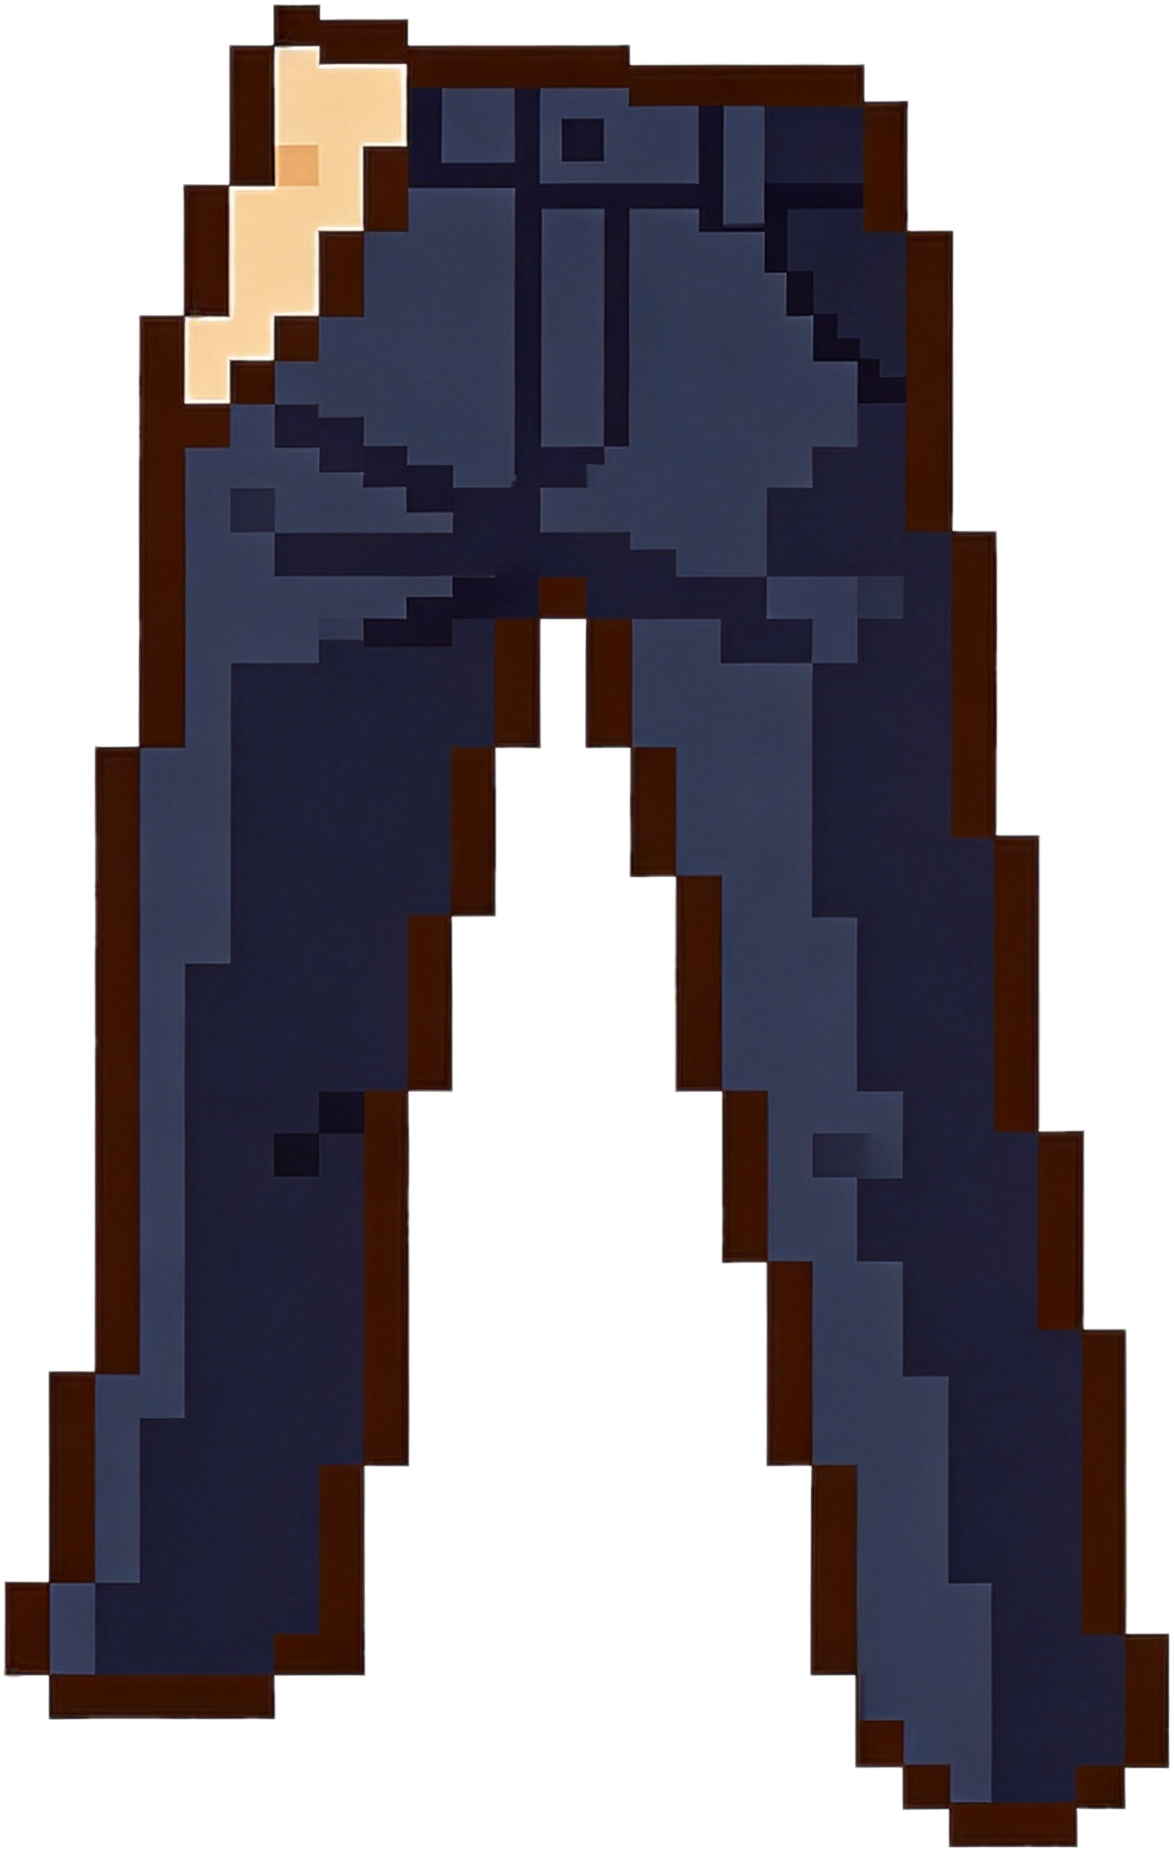
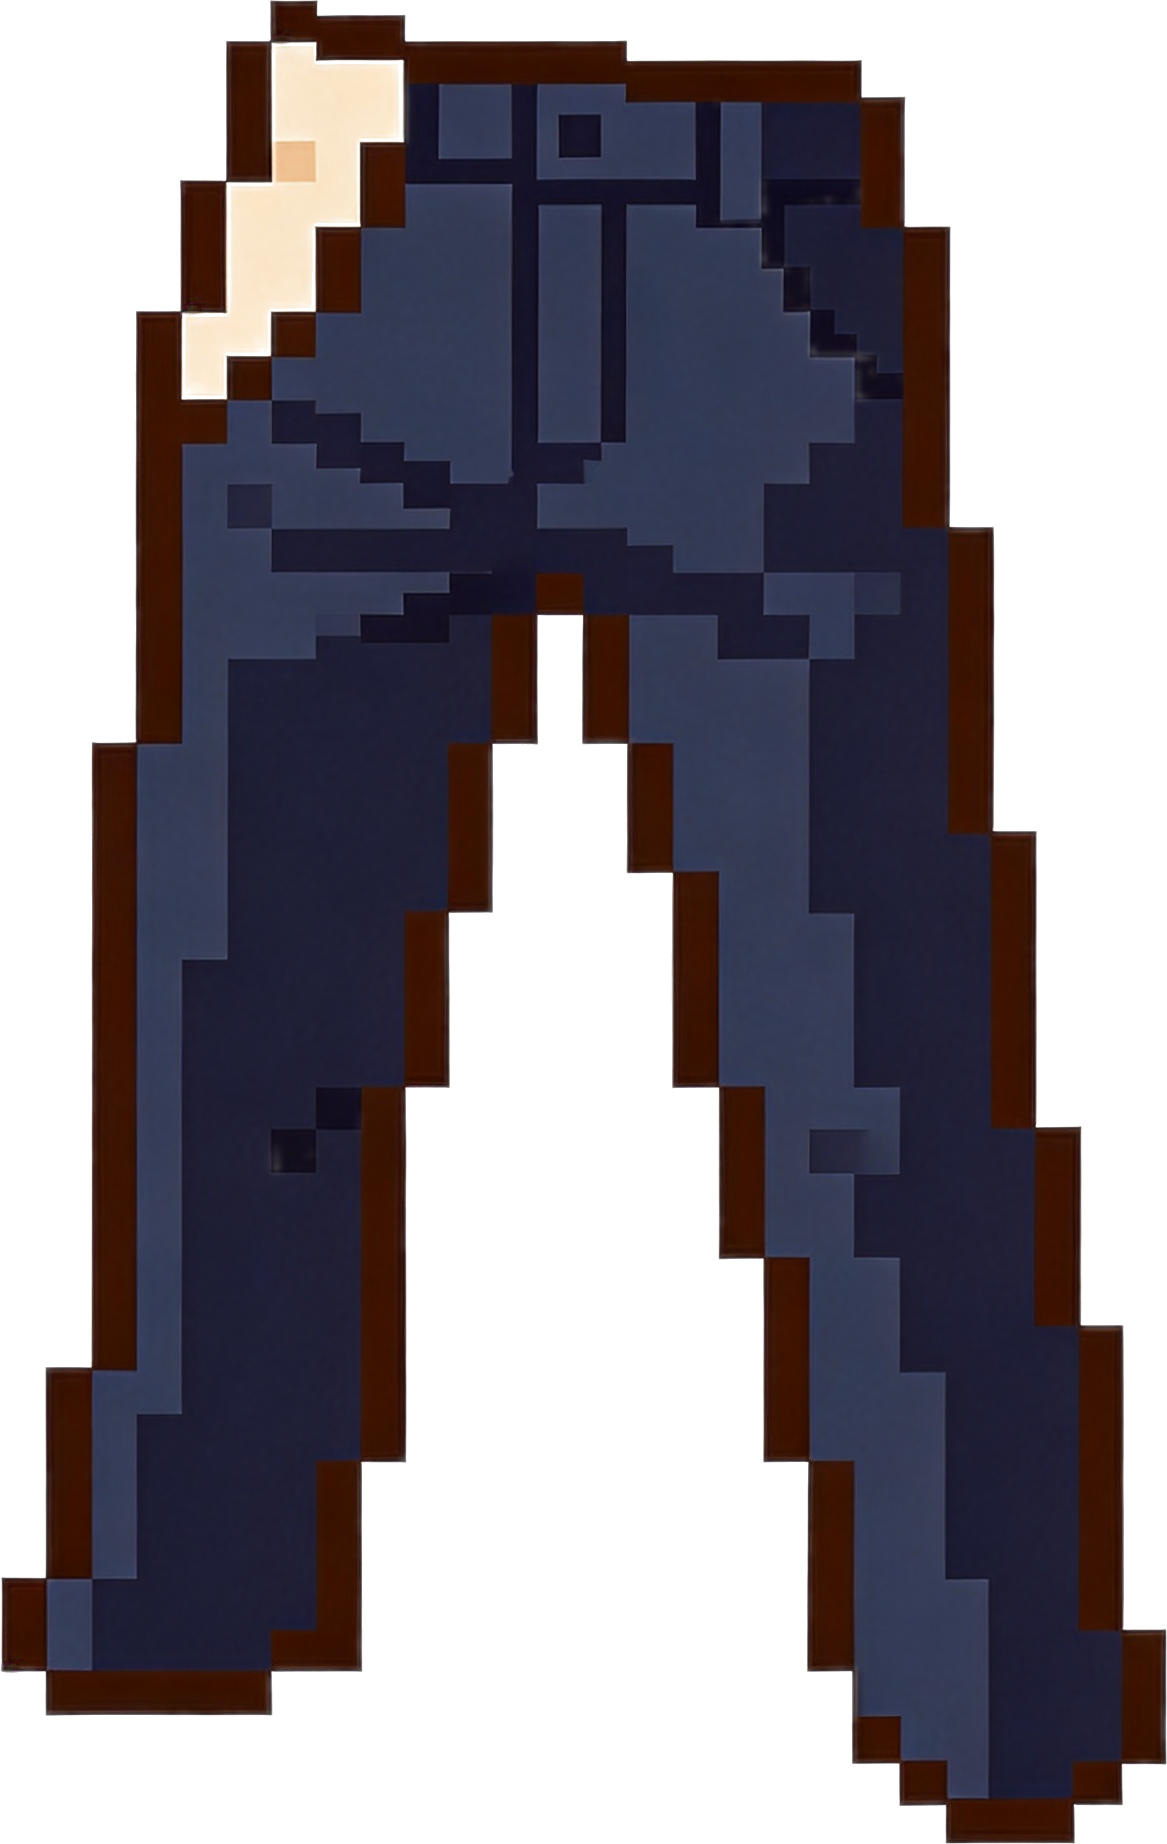
fix(福尔摩斯): 绿幕抠图 gamma 校正 + 重生成预览（此前 contact_sheet 空白）
根因：原 cutout_rig 把绿底转黑但未清 alpha，AI 柔光图残留大量半透明像素
→ 整图被当作内容 → scale=骨长/整图高 被压到 0.02~0.07 → 部件缩成微粒不可见
（head opaque 仅 2%）。

修复：cutout_rig.py 改 v6 —— alpha gamma 校正(gamma=2.5) 把中间调拉实，
head opaque 2%→28%（14x），其余部件同步改善；紧裁到内容包围盒。
下游重跑：gen_sherlock_rig 出 rig 定义、export_skeleton_poses 出 poses.json
（16 帧，已校验连通/直立）、draw_skeleton 重生成 contact_sheet 预览。

注：视觉效果待思傅最终确认；如某部件偏移/翻转，调 sherlock_rig.gd 的
pivot/scale/flip 或回炉对应 PNG。sherlock_rig.gd 头注释同步为通用生成器产出。

diff --git a/godot_project/tools/cutout_rig.py b/godot_project/tools/cutout_rig.py
@@ -1,58 +1,116 @@
 #!/usr/bin/env python3
-"""绿幕抠图 + 紧裁：将 rig 部件 PNG 的绿底抠净并裁到内容包围盒。
-纯 PIL 实现（无需 numpy/scipy）。用于福尔摩斯绑骨素材预处理。
+"""绿幕抠图 v6：Alpha Gamma 校正（非线性提升中间调）。
+
+v2-v5 失败总结：
+  这些 AI 柔光风格素材的角色像素 alpha 分布在 [4,255] 全范围，
+  但大部分集中在低-中区域（mean 60-95）。线性拉伸/硬阈值都无效。
+
+v6 策略：
+  1. v2 的背景检测（颜色+alpha+暗色）保留
+  2. mask × orig_alpha 合成 + despill
+  3. **Alpha Gamma 校正**（核心）：new_a = 255 * (a/255)^(1/gamma)
+     gamma=2.5 → 把中间调 alpha 从 ~80 提升到 ~160
+  4. 轻度硬阈值截断（ALPHA_CUT=40，去噪）
+  5. 紧裁
 """
-import os, glob
+import os, glob, math
 from PIL import Image, ImageFilter
 
-RIG_DIR = "assets/characters/sherlock/rig"
+RIG_DIR = os.path.join(os.path.dirname(__file__), "..", "assets", "characters", "sherlock", "rig")
+GAMMA = 2.5        # >1 提升中间调（值越大提升越激进）
+ALPHA_CUT = 40     # gamma 后截断噪点
+FEATHER = 3
+
 
 def is_green(r, g, b):
-    # 绿幕判定：绿色通道明显高于红、蓝，且整体偏绿
-    return g > 110 and (g - r) > 25 and (g - b) > 25
+    return g > 100 and (g - r) > 20 and (g - b) > 20
 
-def key_and_crop(src, dst, feather=2):
+
+def is_dark(r, g, b):
+    return r < 25 and g < 35 and b < 25
+
+
+def key_and_crop(src, dst):
+    name = os.path.basename(src)
     im = Image.open(src).convert("RGBA")
     px = im.load()
     w, h = im.size
-    alpha = Image.new("L", (w, h), 0)
-    apx = alpha.load()
+
+    # ── Step 1: 背景 mask ──
+    mask = Image.new("L", (w, h), 0)
+    mp = mask.load()
     for y in range(h):
         for x in range(w):
             r, g, b, a = px[x, y]
-            # 已透明或绿幕 -> 去掉
-            if a < 20 or is_green(r, g, b):
-                apx[x, y] = 0
-            else:
-                apx[x, y] = 255
-    # 羽化边缘，避免硬切锯齿
-    alpha = alpha.filter(ImageFilter.GaussianBlur(feather))
-    # 合成：在绿边半透明处降低绿色溢出（把绿通道压到与红/蓝接近）
+            mp[x, y] = 0 if (is_green(r, g, b) or a < 40 or is_dark(r, g, b)) else 255
+
+    if FEATHER > 0:
+        mask = mask.filter(ImageFilter.GaussianBlur(FEATHER))
+
+    # ── Step 2: 合成 + despill ──
     out = Image.new("RGBA", (w, h), (0, 0, 0, 0))
     opx = out.load()
     for y in range(h):
         for x in range(w):
-            r, g, b, a = px[x, y]
-            av = alpha.getpixel((x, y))
-            if av < 8:
+            r, g, b, orig_a = px[x, y]
+            m = mask.getpixel((x, y))
+            final_a = int(m * orig_a / 255.0)
+            if final_a < 4:
                 continue
-            # 边缘处若仍偏绿，压低绿色以减少绿边
-            if av < 230 and is_green(r, g, b):
-                g = (r + b) // 2
-            opx[x, y] = (r, g, b, av)
-    # 紧裁到内容包围盒
+            if final_a < 220 and is_green(r, g, b):
+                g = min(g, (r + b + 10) // 2)
+            opx[x, y] = (r, g, b, final_a)
+
+    # ── Step 3: Alpha Gamma 校正（核心！）──
+    inv_gamma = 1.0 / GAMMA
+    for y in range(h):
+        for x in range(w):
+            r, g, b, a = opx[x, y]
+            if a > 0:
+                new_a = int(255.0 * math.pow(a / 255.0, inv_gamma))
+                new_a = max(0, min(255, new_a))
+                opx[x, y] = (r, g, b, new_a)
+
+    # ── Step 4: 轻度硬阈值截断 ──
+    cut = keep = 0
+    for y in range(h):
+        for x in range(w):
+            _, _, _, a = opx[x, y]
+            if 0 < a < ALPHA_CUT:
+                opx[x, y] = (0, 0, 0, 0)
+                cut += 1
+            elif a > 0:
+                keep += 1
+
+    # ── Step 5: 紧裁 ──
     bbox = out.getbbox()
     if bbox is None:
-        print(f"  SKIP (empty): {os.path.basename(src)}")
+        print(f"  SKIP (empty): {name}")
         return
+
     out = out.crop(bbox)
+    bw, bh = out.size
+
+    # 统计
+    out_alpha = out.split()[3]
+    a_data = list(out_alpha.getdata())
+    total = len(a_data)
+    opaque_n = sum(1 for v in a_data if v > 200)
+    a_mean = sum(a_data) / total if total else 0
+
     out.save(dst)
-    print(f"  {os.path.basename(src):24s} -> {out.size}  (bbox {bbox})")
+    print(f"  {name:24s} {w}x{h}->{bw}x{bh}  "
+          f"gamma={GAMMA}  cut={cut} keep={keep}  "
+          f"α_mean={a_mean:.0f}  opaque={100*opaque_n/total:.0f}%")
+
 
 def main():
     files = sorted(glob.glob(os.path.join(RIG_DIR, "sherlock_*.png")))
+    print(f"=== cutout_rig v6 (gamma={GAMMA}): {len(files)} files ===")
     for f in files:
-        key_and_crop(f, f)  # 覆盖原文件（保留文件名，Godot 会按 mtime 重新导入）
+        key_and_crop(f, f)
+    print("=== done ===")
+
 
 if __name__ == "__main__":
     main()
